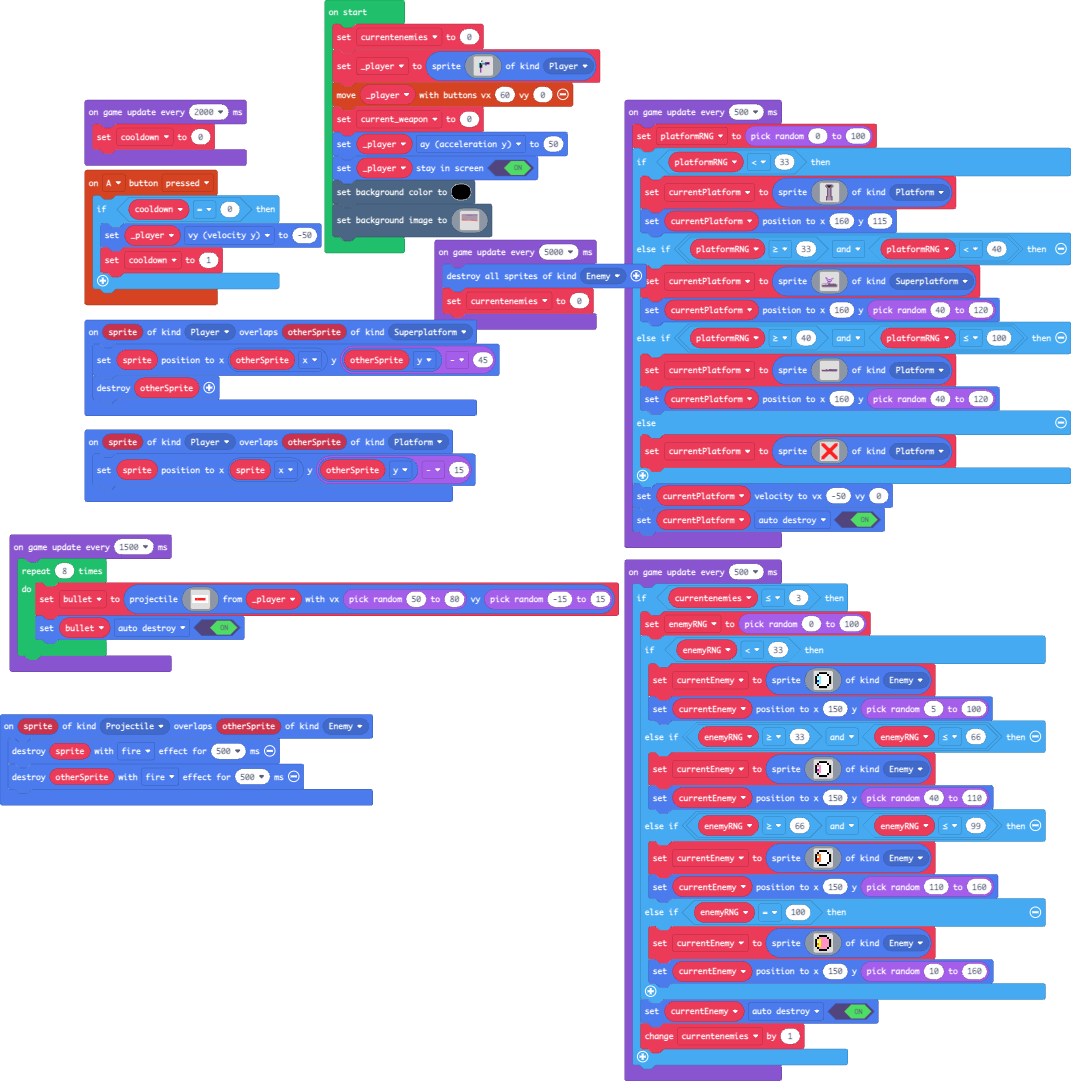
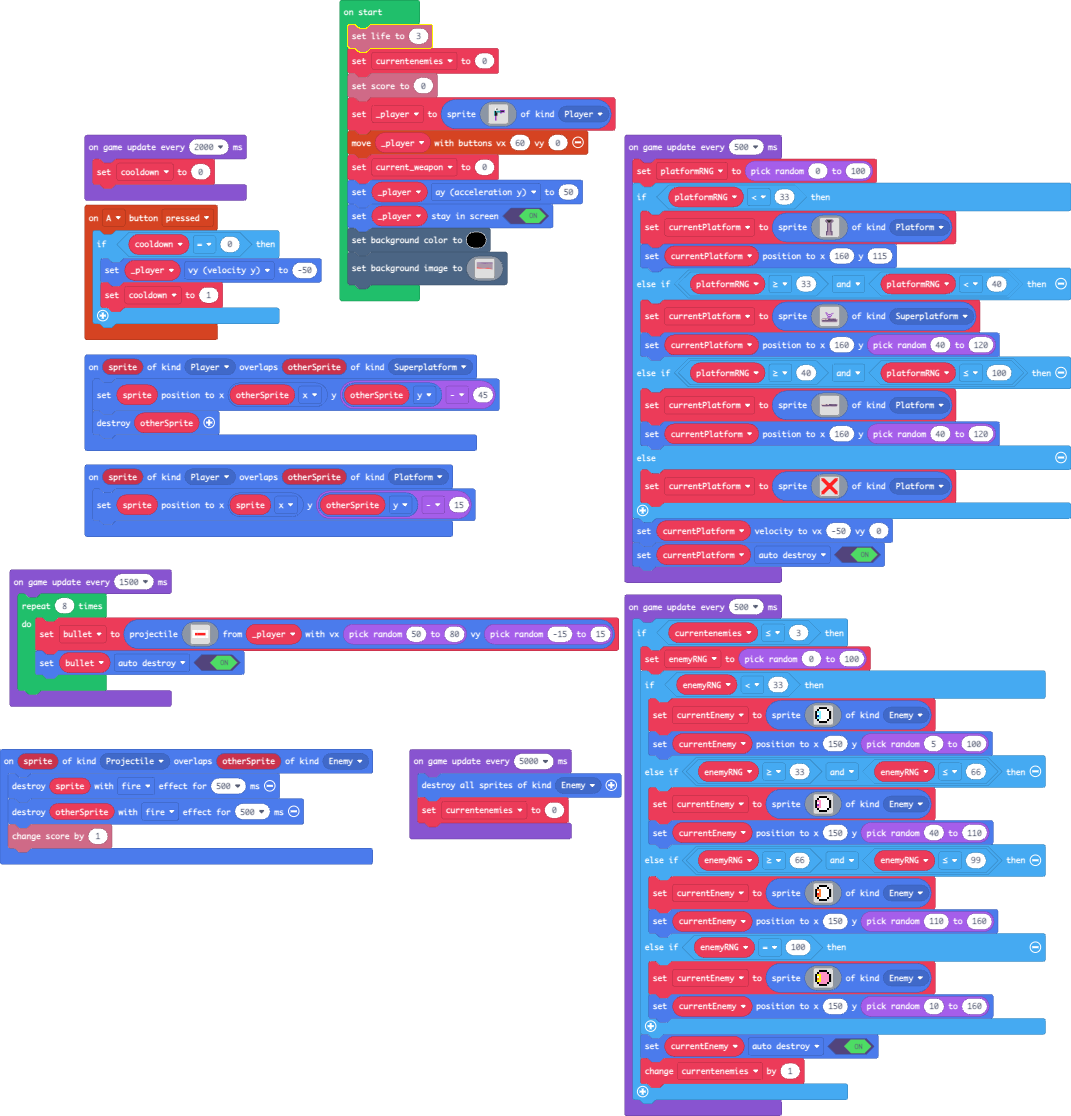
Update main.blocks, main.ts

diff --git a/main.ts b/main.ts
@@ -18,6 +18,7 @@ sprites.onOverlap(SpriteKind.Player, SpriteKind.Superplatform, function (sprite,
 sprites.onOverlap(SpriteKind.Projectile, SpriteKind.Enemy, function (sprite, otherSprite) {
     sprites.destroy(sprite, effects.fire, 500)
     sprites.destroy(otherSprite, effects.fire, 500)
+    info.changeScoreBy(1)
 })
 let currentEnemy: Sprite = null
 let enemyRNG = 0
@@ -26,7 +27,9 @@ let platformRNG = 0
 let bullet: Sprite = null
 let cooldown = 0
 let _player: Sprite = null
+info.setLife(3)
 let currentenemies = 0
+info.setScore(0)
 _player = sprites.create(assets.image`player_gun1`, SpriteKind.Player)
 controller.moveSprite(_player, 60, 0)
 let current_weapon = 0
